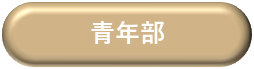
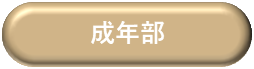
成年部　読み変更

diff --git a/public_html/youth.html b/public_html/youth.html
@@ -1,7 +1,7 @@
 <!DOCTYPE html>
 <html lang="ja">
     <head>
-        <title>青木島剣道少年団 青年部</title>
+        <title>青木島剣道少年団 成年部</title>
         <meta charset="UTF-8">
         <meta keywords="長野市,剣道,大人,高校生,リバ剣">
         <meta name="description" content="長野県長野市で活動している剣道教室です。高校生・大人の方も稽古に励んでいます。">
@@ -28,29 +28,33 @@
         }
     </style>
     <body>
-        <h1>青年部</h1>
+        <h1>成年部</h1>
         青木島剣道少年団では、高校生や大人の方も一緒に稽古に参加することができます。<br>
         剣道を始めてみませんか？<br>
         年齢に関係なく、40代や50代からでも大歓迎です。<br>
-        健康のために剣道を始める方や、もう一度剣道に挑戦したい方にぴったりの団です。
+        健康のために剣道を始める方や、もう一度剣道に挑戦したい方にぴったりの団です。<br>
+        <br>
+        
+        他の剣道団体の皆様もぜひご参加ください。<br>
+        稽古費用は一切かかりませんので、心ゆくまで剣道を楽しんでいただけます。<br>
+        心技体を鍛え、仲間と共に新たな挑戦を始めましょう。<br>
+        <br>
+        <br>
+
+        <h2>活動日時・場所</h2>
+        <li>土曜 20:00-20:45 青木島小学校</li>
+        <li>日曜 19:00-19:45 青木島小学校</li>
+        時間・場所は、変更の可能性があるため、事前にご連絡をお願いいたします。<br>
+        連絡先 <a href="mailto:aokijimakendosyonendan@gmail.com"><b>aokijimakendosyonendan@gmail.com</b></a>
+
         <br>
         <h2>生涯剣道</h2>
         剣道は、生涯にわたって楽しむことができる武道です。<br>
         運動が苦手な方でも大丈夫です。<br>
         経験がなくても大丈夫です。<br>
         大人から始めて初段の段位を取得することも可能です。<br>
-        <br>       
-
-        <h2>稽古のイメージ</h2>
-        体力や時間の都合に合わせて参加していただけます。<br>
-        準備体操をしっかりと行ってから稽古に入ります。<br>
-        もし、稽古中に疲れてしまった場合はいつでも休憩することができます。<br>
         <img src="youth.png"><br>
-        <br>
-
-
-
-        <br>
+        <br>     
         <br>
         <br>
         <a href="index.html" target="top">ホームへ</a><br>

diff --git a/public_html/first.html b/public_html/first.html
@@ -29,11 +29,18 @@
         <h1>ようこそ!　青木島剣道少年団 ホームページへ</h1>
         青木島剣道少年団は、33年にわたり<br>
         長野県長野市更北地区で活動している剣道教室です。<br>
-        小学生、中学生、そして青年部(高校生、大人)が一緒に稽古に取り組んでいます。<br>
+        小学生、中学生、そして成年部(高校生、大人)が一緒に稽古に取り組んでいます。<br>
+
         <br>
-        道着のワッペンを刷新しました。<br>
+        ポスターを作成しました。<br>
+        成年部の時間を設けました。他の剣道団体の皆様もぜひご参加ください。<a href="youth.html" >成年部の詳細はこちら</a> <br>
+        <img src="aokijima_poster_20241014.png" width="30%"><br>
+        <br>
+
+        <br>
+        道着のワッペンを刷新しました。<a href="group.html#wappen">ワッペンの詳細はこちら</a><br>
         <img src="wappen.png" width="30%"><br>
-        <a href="group.html#wappen">ワッペンの詳細はこちら</a>
+        
         <br>
         <br>
         <br>

diff --git a/public_html/group.html b/public_html/group.html
@@ -64,14 +64,14 @@
         <li>小学4年：3名</li>
         <li>小学5年：9名</li>
         <li>小学6年：8名</li>
-        　青木島小、三本柳小、真島小、下氷鉋小、篠ノ井東小、裾花小など<br>
+        　青木島小、三本柳小、真島小、下氷鉋小、篠ノ井東小など<br>
         <br>
         <li>中学1年：8名</li>
         <li>中学2年：4名</li>
         <li>中学3年：4名</li>
         　更北中、広徳中、裾花中、犀陵中、長野日本大学中など<br>
         <br>
-        <li>青年部：11名</li>     
+        <li>成年部：11名</li>     
 
 
         <h2>運営</h2>

diff --git a/public_html/activity.html b/public_html/activity.html
@@ -58,7 +58,8 @@
     08月11日　日大大会<br>
     09月01日　中野市少年剣道錬成会(小)<br>
     09月22日　長野市柔剣道大会(小、中)<br>
-    予定10月14日　小坂憲次杯<br>
+    10月13日　真田まつり(小)<br>
+    10月14日　小坂憲次杯(小、中)<br>
     <br>
 
     <hr>
